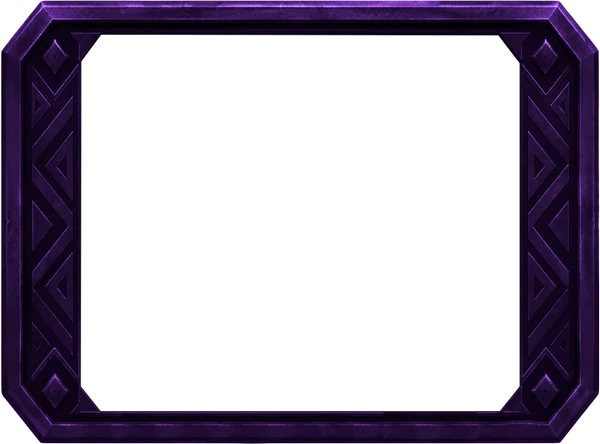
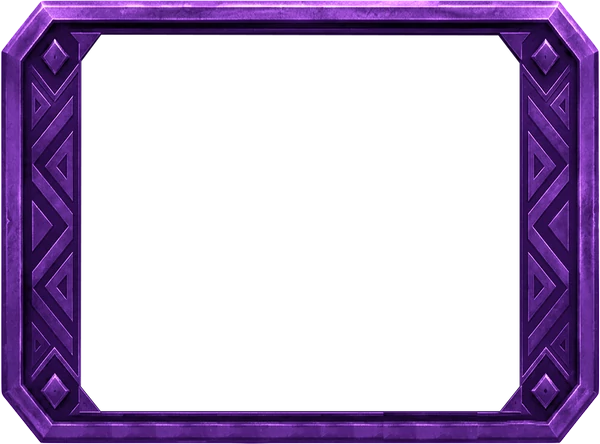
A charge keeps the striker's size; seat verdict stamps are smaller; the Event off frame from the new export
partWay returned a rect the size of the target, and fly scales a ghost to the
rect it is sent to, so a striker charging from a seat at a Gate tile doubled
on the way (and halved the other way round), which is what sat over Harriet
when Sojourner Truth silenced her. The charge now keeps the mover's own size.

A verdict stamp on an Inside seat is set smaller (a 53px seat carried a
114px SUPPRESSED), so it reads as that seat's and not its neighbours'.

The Event slot's dark frame is the new export.

Claude-Session: https://claude.ai/code/session_01CdCWBBELLp3cWMWqqhgQtC

diff --git a/src/ui/fly.ts b/src/ui/fly.ts
@@ -142,7 +142,9 @@ export function partWay(a: DOMRect, b: DOMRect, k: number): DOMRect {
   const cb = centre(b);
   const x = ca.x + (cb.x - ca.x) * k;
   const y = ca.y + (cb.y - ca.y) * k;
-  return new DOMRect(x - b.width / 2, y - b.height / 2, b.width, b.height);
+  // The mover's own size, not the target's: a charge from a seat at a Gate tile (or the other way round) must not
+  // double or halve the striker on the way, since `fly` scales a ghost to the rect it is sent to.
+  return new DOMRect(x - a.width / 2, y - a.height / 2, a.width, a.height);
 }
 
 /** A short shudder in place, on top of wherever the ghost is (the striker holding on impact, the victim taking the hit). */

diff --git a/src/ui/theme.css b/src/ui/theme.css
@@ -2030,3 +2030,8 @@ body.board-shake .battlefield { animation: board-shake 0.32s cubic-bezier(0.36, 
   .gates .gate-slot.event-slot.planned { border: 0; }
   .gates .gate-slot.event-slot.trigger::before { z-index: 6; }
 }
+
+/* A verdict on an Inside seat: a smaller stamp, so it reads as that seat's and not its neighbours'. */
+.slot.filled > .stamp.verdict { padding: 1px 4px; border-width: 2px; }
+.slot.filled > .stamp.verdict b { font-size: clamp(8px, 0.68vw, 10.5px); letter-spacing: 0.08em; }
+.slot.filled > .stamp.verdict i { font-size: clamp(7px, 0.6vw, 9.5px); }
